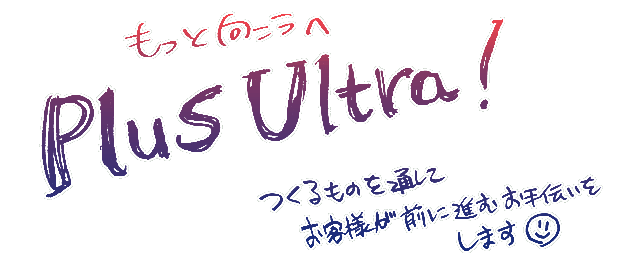
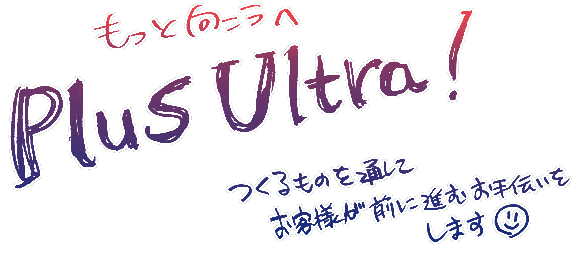
Intro Section update

Changed region(s): [[0.0, 0.0299, 0.8379, 0.7463], [0.3724, 0.5672, 0.9931, 0.9552], [0.1552, 0.0, 0.5276, 0.209]]

diff --git a/css/style.css b/css/style.css
@@ -118,7 +118,7 @@ h1, h2, h3, h4, h5, h6 {
 --------------------------------------------------------------*/
 #header {
   padding: 20px 0;
-  height: 84px;
+  height: 75px;
   transition: all 0.5s;
   z-index: 997;
   background: #323234;
@@ -185,6 +185,7 @@ h1, h2, h3, h4, h5, h6 {
   align-items: center;
   flex-direction: column;
   text-align: center;
+  padding: 15px;
 }
 
 #intro .intro-content h2 {
@@ -221,6 +222,8 @@ h1, h2, h3, h4, h5, h6 {
 #intro .intro-content .btn-get-started {
   background: #0c2e8a;
   border: 2px solid #0c2e8a;
+  margin: 10px;
+  width: 200px;
 }
 
 #intro .intro-content .btn-get-started:hover {
@@ -231,6 +234,7 @@ h1, h2, h3, h4, h5, h6 {
 #intro .intro-content .btn-projects {
   background: #fb005c;
   border: 2px solid #fb005c;
+  width: 200px;
 }
 
 #intro .intro-content .btn-projects:hover {
@@ -267,7 +271,7 @@ h1, h2, h3, h4, h5, h6 {
 
 #intro .catch_img img{
   max-width: 100%;
-  z-index: 10;
+
 }
 
 

diff --git a/index.html b/index.html
@@ -77,7 +77,7 @@
   <section id="intro">
 
     <div class="intro-content">
-      <h2 class="catch_img"><img src="img/plusultra.png" alt=""></h2>
+      <img class="img-fluid mb-5 d-block mx-auto" src="img/plusultra.png" alt="">
       <div>
         <a href="#about" class="btn-get-started scrollto">Get Started</a>
         <a href="#portfolio" class="btn-projects scrollto">Portfolio</a>
